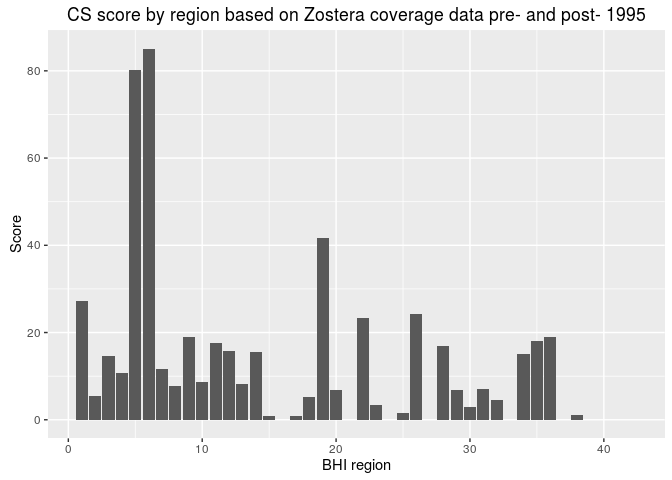
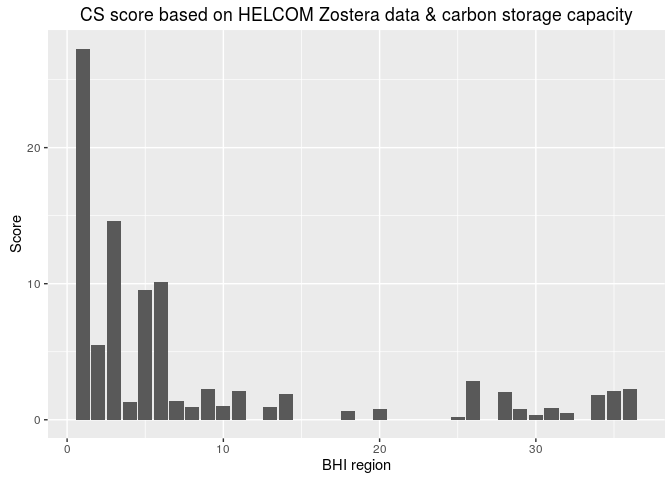
added carbon storage capacity to CS calculations; saved new cs_status layer

diff --git a/baltic2015/prep/CS/cs_prep.md b/baltic2015/prep/CS/cs_prep.md
@@ -20,7 +20,7 @@ Carbon Storage (CS) Goal Data Preparation
     -   [4.4 Status Calcuation (Can't do... See 4.3 Problem)](#status-calcuation-cant-do...-see-4.3-problem)
 -   [5. Alternative 2 - Explore Global CS scores for Baltic regions (NOT USED)](#alternative-2---explore-global-cs-scores-for-baltic-regions-not-used)
 -   [6. Alternative 3: using Carbon burial rate (NOT USED)](#alternative-3-using-carbon-burial-rate-not-used)
--   [7. Alternative 4 - Zostera polygon data exploration](#alternative-4---zostera-polygon-data-exploration)
+-   [7. Alternative 4 - HELCOM Zostera data exploration](#alternative-4---helcom-zostera-data-exploration)
 
 1. Background
 -------------
@@ -430,8 +430,10 @@ trend_bhi <- full_join(trend_basin, bhi_rgn_lookup, by = 'basin') %>%
     ## Warning in full_join_impl(x, y, by$x, by$y, suffix$x, suffix$y): joining
     ## factor and character vector, coercing into character vector
 
-7. Alternative 4 - Zostera polygon data exploration
----------------------------------------------------
+7. Alternative 4 - HELCOM Zostera data exploration
+--------------------------------------------------
+
+**Status**
 
 Zostera new shape file explore:
 
@@ -439,6 +441,12 @@ Zostera new shape file explore:
 -   field description:
 
 0 = no observations 1 = present before year 1995 or in 1995 2 = present after year 1995 3 = present before and after year 1995
+
+Also added one more factor: carbon storage capacity among different regions (from Emilia Röhr, Åbo University. *Röhr et al. 2016*). - for the BHI region 1-3 we use a carbon storage potential of: 4862 ( g C m^-2) - for all others BHI regions where seagrass is growing we use: 578 ( g C m^-2)
+
+These regions have been identified to be unsuitable for eelgrass growth and thus have status of NA: - 12, 15, 17, 19, 21, 22, 23, 24, 37, 38, 39, 40, 41, 42
+
+**Trend** Trend will be NA for all regions.
 
 ``` r
 ####### CS shapefile #############
@@ -510,20 +518,42 @@ raster::extent(bhi_transform)
 
 cs_data_3 <- read.csv(file.path(dir_cs, "zostera_bhi_intersect.csv"))
 
-cs_status <- cs_data_3 %>% 
+cs_status_1 <- cs_data_3 %>% 
   dplyr::select(bhi = BHI_ID, country = rgn_nam, zostera = Z_marina) %>% 
-  mutate(cs_score = ifelse(zostera == 2, 100, zostera/3)) %>% # if zostera = 2, set score to 100
+  mutate(helcom_score = ifelse(zostera == 2, 100, zostera/3)) %>% # if zostera = 2, set score to 100
   group_by(bhi) %>% 
-  summarize(score = mean(cs_score))
+  summarize(score.1 = mean(helcom_score)) %>% 
+  ungroup
+
+### incorporate CS potential
+cs_status_2 <- cs_status_1 %>% 
+  mutate(cs_poten = ifelse(bhi %in% c(1,2,3), 1, 578/4862), 
+         reference = 100 * 1, #helcom score of 100, and highest CS potential
+         score = score.1 * cs_poten / reference *100) 
+  
+
+### identify regions with no eelgrass growth potential and set as NA
+no_eelgrass <-c(12, 15, 17, 19, 21, 22, 23, 24, 37, 38, 39, 40, 41, 42)
+
+cs_status_3 <- cs_status_2 %>% 
+  mutate(score = ifelse(bhi %in% no_eelgrass, NA, score)) %>% 
+  dplyr::select(rgn_id = bhi, 
+                score) %>% 
+  mutate(dimension = "status")
+
+write_csv(cs_status_3, file.path(dir_layers, 'cs_status_bhi2015.csv'))
+  
  
 ## plot ##
-cs_plot_new <- ggplot(cs_status) +
-  geom_bar(aes(bhi, score), stat = 'identity') +
-  labs(title = "CS score by region based on Zostera coverage data pre- and post- 1995",
+cs_plot_new <- ggplot(cs_status_3) +
+  geom_bar(aes(rgn_id, score), stat = 'identity') +
+  labs(title = "CS score based on HELCOM Zostera data & carbon storage capacity",
        x = "BHI region",
        y = "Score") 
   
 print(cs_plot_new)
 ```
+
+    ## Warning: Removed 14 rows containing missing values (position_stack).
 
 ![](cs_prep_files/figure-markdown_github/polygon%20data%20explore-1.png)
